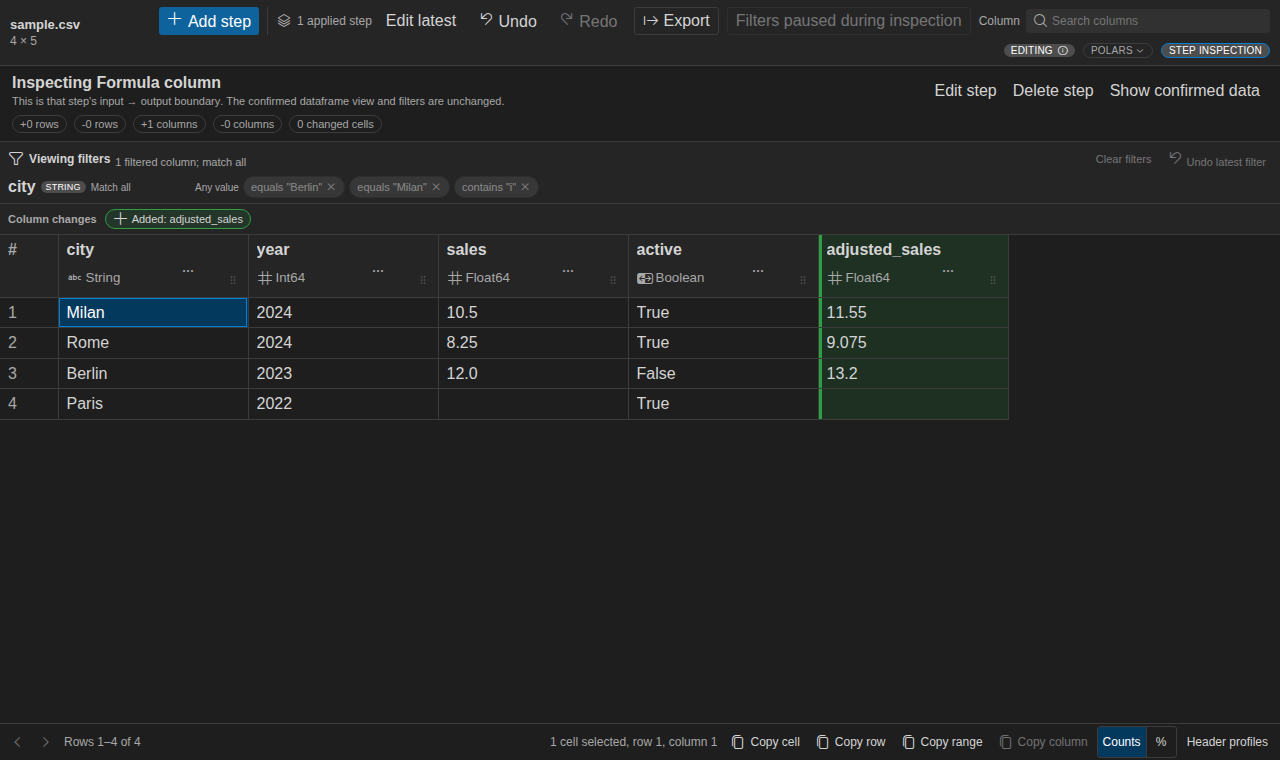
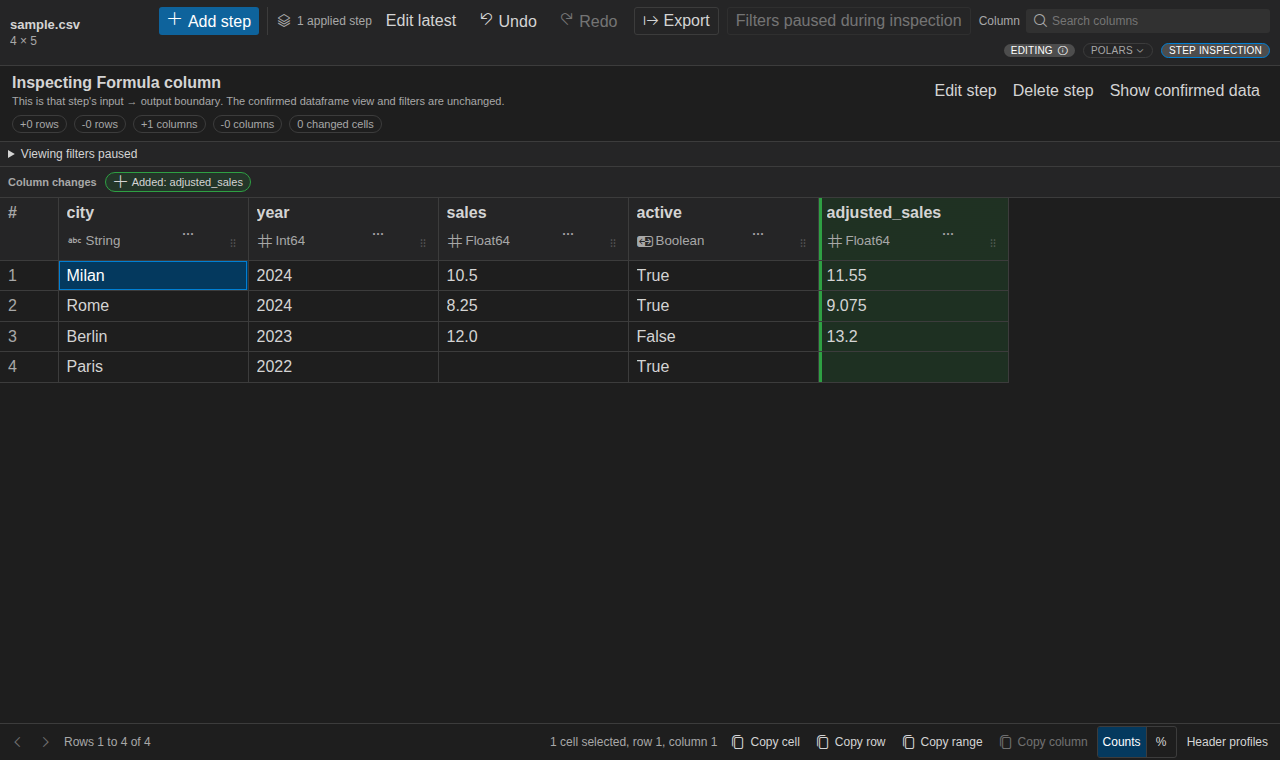
Collapse paused viewing filters during step inspection

diff --git a/src/test/appStepInspection.component.test.tsx b/src/test/appStepInspection.component.test.tsx
@@ -403,9 +403,20 @@ describe("App applied-step inspection", () => {
   });
 
   it("keeps the confirmed view untouched while selecting, paging, and clearing an applied step", async () => {
+    const filteredMetadata: SessionMetadata = {
+      ...metadata,
+      filterModel: {
+        ...metadata.filterModel,
+        filters: [
+          { column: "city", type: "string", predicates: [{ kind: "predicate", operator: "contains", value: "i" }] }
+        ]
+      }
+    };
     render(<App />);
-    dispatch({ kind: "sessionOpened", metadata, page: confirmedPage, summaries: [] });
+    dispatch({ kind: "sessionOpened", metadata: filteredMetadata, page: confirmedPage, summaries: [] });
     await screen.findByRole("cell", { name: "10.5" });
+    const filterRegion = screen.getByRole("region", { name: "Viewing filters" });
+    const filterRule = screen.getByRole("button", { name: 'Remove contains "i" filter from city' });
     postMessage.mockClear();
 
     dispatch({ kind: "editorAction", action: "selectStep", stepId: step.id });
@@ -420,6 +431,11 @@ describe("App applied-step inspection", () => {
     expect(screen.getByText("Loading selected-step inspection…")).toBeVisible();
     expect(screen.getByRole("button", { name: "Filters paused during inspection" })).toBeDisabled();
     expect(screen.queryByRole("cell", { name: "10.5" })).toBeNull();
+    const disclosure = screen.getByText("Viewing filters paused").closest("details")!;
+    expect(disclosure.open).toBe(false);
+    fireEvent.click(screen.getByText("Viewing filters paused"));
+    expect(filterRegion).toBeVisible();
+    expect(filterRule).toBeDisabled();
 
     dispatch({
       kind: "editorAction",
@@ -435,6 +451,8 @@ describe("App applied-step inspection", () => {
     dispatch(inspectionResult(step.id, 0, inspection()));
 
     expect(await screen.findByLabelText("Selected applied-step inspection")).toBeVisible();
+    expect(disclosure.open).toBe(true);
+    expect(screen.getByRole("region", { name: "Viewing filters" })).toBe(filterRegion);
     expect(screen.getByRole("cell", { name: "sales, row 1: changed from 10.5 to 11" })).toHaveAttribute(
       "data-diff-state",
       "changed"
@@ -459,6 +477,7 @@ describe("App applied-step inspection", () => {
     expect(screen.getByText("Loading selected-step inspection…")).toBeVisible();
     dispatch(inspectionResult(step.id, 200, inspection(200)));
     expect(await screen.findByRole("cell", { name: "sales, row 201: changed from 10.5 to 11" })).toBeVisible();
+    expect(disclosure.open).toBe(true);
 
     postMessage.mockClear();
     fireEvent.keyDown(screen.getByRole("main"), { key: "Escape" });
@@ -467,6 +486,13 @@ describe("App applied-step inspection", () => {
     expect(screen.getByRole("cell", { name: "10.5" })).toBeVisible();
     expect(screen.getByRole("button", { name: "Column profiles and filters" })).toBeEnabled();
     expect(runtimeRequests("getPage")).toHaveLength(0);
+    expect(screen.getByText("Viewing filters paused")).not.toBeVisible();
+    expect(screen.getByRole("region", { name: "Viewing filters" })).toBe(filterRegion);
+    expect(filterRule).toBeEnabled();
+    fireEvent.click(filterRule);
+    expect(onlyRuntimeRequest("getPage")).toMatchObject({
+      filterModel: { ...filteredMetadata.filterModel, filters: [] }
+    });
   });
 
   it("keeps inspection failures local and ignores a superseded result", async () => {
@@ -475,13 +501,25 @@ describe("App applied-step inspection", () => {
       kind: "dropColumns",
       params: { columns: [{ id: "c:city", name: "city" }] }
     };
-    const withTwoSteps = { ...metadata, steps: [step, secondStep] };
+    const withTwoSteps: SessionMetadata = {
+      ...metadata,
+      steps: [step, secondStep],
+      filterModel: {
+        ...metadata.filterModel,
+        filters: [
+          { column: "city", type: "string", predicates: [{ kind: "predicate", operator: "contains", value: "i" }] }
+        ]
+      }
+    };
     render(<App />);
     dispatch({ kind: "sessionOpened", metadata: withTwoSteps, page: confirmedPage, summaries: [] });
     await screen.findByRole("cell", { name: "10.5" });
 
     dispatch({ kind: "editorAction", action: "selectStep", stepId: step.id });
+    const disclosure = screen.getByText("Viewing filters paused").closest("details")!;
+    fireEvent.click(screen.getByText("Viewing filters paused"));
     dispatch({ kind: "editorAction", action: "selectStep", stepId: secondStep.id });
+    expect(disclosure.open).toBe(true);
     dispatch(inspectionResult(step.id, 0, inspection()));
     expect(screen.getByText(/Loading Drop columns/u)).toBeVisible();
 
@@ -497,9 +535,12 @@ describe("App applied-step inspection", () => {
     expect(screen.queryByText("Opening session...")).toBeNull();
     expect(screen.queryByRole("cell", { name: "10.5" })).toBeNull();
     expect(screen.getByRole("button", { name: "Filters paused during inspection" })).toBeDisabled();
+    expect(disclosure.open).toBe(true);
+    expect(screen.getByRole("button", { name: 'Remove contains "i" filter from city' })).toBeDisabled();
 
     fireEvent.click(screen.getByRole("button", { name: "Show confirmed data" }));
     expect(screen.getByRole("cell", { name: "10.5" })).toBeVisible();
+    expect(screen.getByRole("button", { name: 'Remove contains "i" filter from city' })).toBeEnabled();
   });
 
   it("edits an inspected earlier step against its inspected input schema and stable ID", async () => {

diff --git a/src/test/activeFilterBar.component.test.tsx b/src/test/activeFilterBar.component.test.tsx
@@ -74,6 +74,7 @@ interface FocusViewState {
   canUndo: boolean;
   requestLifecycle?: FilterBarRequestLifecycle;
   disabled?: boolean;
+  paused?: boolean;
   retainVisible?: boolean;
 }
 
@@ -89,6 +90,7 @@ function FocusView({
   onApply,
   onUndo,
   disabled = false,
+  paused = false,
   retainVisible = false
 }: FocusViewProps) {
   return (
@@ -98,6 +100,7 @@ function FocusView({
         model={model}
         canUndo={canUndo}
         disabled={disabled}
+        paused={paused}
         retainVisible={retainVisible}
         requestLifecycle={requestLifecycle}
         onApply={onApply}
@@ -275,10 +278,12 @@ describe("ActiveFilterBar", () => {
         model={{ ...activeModel, filters: [] }}
         canUndo={true}
         disabled={true}
+        paused={true}
         onApply={onApply}
         onUndo={onUndo}
       />
     );
+    fireEvent.click(screen.getByText("Viewing filters paused"));
     expect(screen.getByText("No active filters")).toBeVisible();
     expect(screen.getByRole("button", { name: "Clear filters" })).toBeDisabled();
     expect(screen.getByRole("button", { name: "Undo latest filter" })).toBeDisabled();
@@ -289,11 +294,111 @@ describe("ActiveFilterBar", () => {
         metadata={metadata}
         model={{ ...activeModel, filters: [] }}
         canUndo={false}
+        paused={true}
         onApply={onApply}
         onUndo={onUndo}
       />
     );
     expect(screen.queryByRole("region", { name: "Viewing filters" })).not.toBeInTheDocument();
+    expect(screen.queryByText("Viewing filters paused")).not.toBeInTheDocument();
+  });
+
+  it("retains the same rules and disclosure choice while inspection is paused", () => {
+    const onApply = vi.fn();
+    const onUndo = vi.fn();
+    const view = (paused: boolean) => (
+      <FocusView
+        model={activeModel}
+        canUndo={true}
+        paused={paused}
+        disabled={paused}
+        onApply={onApply}
+        onUndo={onUndo}
+      />
+    );
+    const rendered = render(view(false));
+    const region = screen.getByRole("region", { name: "Viewing filters" });
+    const rule = screen.getByRole("button", { name: 'Remove equals "Milan" (string) filter from city' });
+    const gridRow = screen.getByRole("button", { name: "Grid row" });
+    gridRow.focus();
+    rendered.rerender(view(true));
+
+    const summary = screen.getByText("Viewing filters paused");
+    const disclosure = summary.closest("details")!;
+    expect(gridRow).toHaveFocus();
+    expect(disclosure.open).toBe(false);
+    expect(region).toBeInTheDocument();
+    expect(region).not.toBeVisible();
+    expect(rule).toBeDisabled();
+    fireEvent.click(summary);
+    expect(disclosure.open).toBe(true);
+    expect(region).toBeVisible();
+    rendered.rerender(view(true));
+    expect(disclosure.open).toBe(true);
+    expect(screen.getByRole("region", { name: "Viewing filters" })).toBe(region);
+    expect(screen.getByText("2 filtered columns; match any")).toBeVisible();
+    expect(onApply).not.toHaveBeenCalled();
+    expect(onUndo).not.toHaveBeenCalled();
+
+    summary.focus();
+    rendered.rerender(view(false));
+    expect(summary).not.toBeVisible();
+    expect(region).toHaveFocus();
+    expect(rule).toBeEnabled();
+    fireEvent.click(rule);
+    expect(onApply).toHaveBeenLastCalledWith({
+      ...activeModel,
+      filters: [
+        {
+          ...activeModel.filters[0],
+          valueFilter: { ...activeModel.filters[0].valueFilter!, selectedValues: ["Paris"] }
+        },
+        activeModel.filters[1]
+      ]
+    });
+    fireEvent.click(screen.getByRole("button", { name: "Undo latest filter" }));
+    expect(onUndo).toHaveBeenCalledOnce();
+  });
+
+  it("moves only owned filter focus to the disclosure and retires pending action focus", () => {
+    const sequence = renderFocusSequence({ model: activeModel, canUndo: true });
+    const clear = screen.getByRole("button", { name: "Clear filters" });
+    clear.focus();
+    fireEvent.click(clear);
+    sequence.rerender({
+      model: activeModel,
+      canUndo: true,
+      paused: true,
+      disabled: true,
+      requestLifecycle: { pendingRequestId: "clear-request" }
+    });
+    const summary = screen.getByText("Viewing filters paused");
+    expect(summary).toHaveFocus();
+    sequence.rerender({
+      model: activeModel,
+      canUndo: true,
+      paused: true,
+      disabled: true,
+      requestLifecycle: { settledRequestId: "clear-request" }
+    });
+    expect(summary).toHaveFocus();
+    const gridRow = screen.getByRole("button", { name: "Grid row" });
+    gridRow.focus();
+    sequence.rerender({ model: activeModel, canUndo: true });
+    expect(gridRow).toHaveFocus();
+
+    clear.focus();
+    fireEvent.click(clear);
+    clear.blur();
+    sequence.rerender({
+      model: activeModel,
+      canUndo: true,
+      paused: true,
+      disabled: true,
+      requestLifecycle: { settledRequestId: "clear-request" }
+    });
+    expect(document.body).toHaveFocus();
+    expect(screen.getByRole("region", { name: "Viewing filters", hidden: true })).not.toBeVisible();
   });
 
   it("restores focus when the initiating request moves from disabled to settled", () => {

diff --git a/src/webviews/filters/ActiveFilterBar.tsx b/src/webviews/filters/ActiveFilterBar.tsx
@@ -19,6 +19,7 @@ interface ActiveFilterBarProps {
   metadata: SessionMetadata;
   model: FilterModel;
   disabled?: boolean;
+  paused?: boolean;
   canUndo: boolean;
   retainVisible?: boolean;
   requestLifecycle?: FilterBarRequestLifecycle;
@@ -43,6 +44,7 @@ export function ActiveFilterBar({
   metadata,
   model,
   disabled = false,
+  paused = false,
   canUndo,
   retainVisible = false,
   requestLifecycle,
@@ -50,11 +52,29 @@ export function ActiveFilterBar({
   onUndo
 }: ActiveFilterBarProps) {
   const region = useRef<HTMLElement | null>(null);
+  const disclosure = useRef<HTMLDetailsElement | null>(null);
   const focusIntent = useRef<FilterFocusIntent | undefined>(undefined);
   const activeFilters = useMemo(() => model.filters.filter(isActiveColumnFilter), [model.filters]);
   const filteredColumnCount = new Set(activeFilters.map((filter) => filter.column)).size;
   const pendingRequestId = requestLifecycle?.pendingRequestId;
   const settledRequestId = requestLifecycle?.settledRequestId;
+  const visible = activeFilters.length > 0 || canUndo || retainVisible;
+
+  useLayoutEffect(() => {
+    const details = disclosure.current;
+    const summary = details?.querySelector("summary");
+    if (!details || !summary) return;
+    if (paused) {
+      summary.hidden = false;
+      focusIntent.current = undefined;
+      if (region.current?.contains(document.activeElement)) summary.focus({ preventScroll: true });
+      details.open = false;
+    } else {
+      details.open = true;
+      if (document.activeElement === summary) region.current?.focus({ preventScroll: true });
+      summary.hidden = true;
+    }
+  }, [paused, visible]);
 
   useLayoutEffect(() => {
     const intent = focusIntent.current;
@@ -88,7 +108,7 @@ export function ActiveFilterBar({
     restoreFilterActionFocus(intent.action, region.current, activeFilters.length > 0);
   }, [activeFilters, canUndo, disabled, pendingRequestId, settledRequestId]);
 
-  if (activeFilters.length === 0 && !canUndo && !retainVisible) return null;
+  if (!visible) return null;
 
   const applyRuleRemoval = (filter: ColumnFilter, nextFilter: ColumnFilter, trigger: HTMLButtonElement) => {
     if (disabled) return;
@@ -103,7 +123,7 @@ export function ActiveFilterBar({
     }
   };
 
-  return (
+  const filterBar = (
     <section
       ref={region}
       className="viewFilterBar"
@@ -274,6 +294,13 @@ export function ActiveFilterBar({
         </div>
       )}
     </section>
+  );
+
+  return (
+    <details ref={disclosure} className="viewFilterDisclosure">
+      <summary hidden>Viewing filters paused</summary>
+      {filterBar}
+    </details>
   );
 }
 

diff --git a/src/webviews/styles/grid.css b/src/webviews/styles/grid.css
@@ -6,6 +6,24 @@
   position: relative;
 }
 
+.viewFilterDisclosure {
+  flex: 0 0 auto;
+  min-width: 0;
+}
+
+.viewFilterDisclosure > summary {
+  background: var(--vscode-editorGroupHeader-tabsBackground, var(--vscode-editor-background));
+  border-bottom: 1px solid var(--vscode-panel-border);
+  cursor: pointer;
+  font-size: 12px;
+  padding: 5px 8px;
+}
+
+.viewFilterDisclosure > summary:focus-visible {
+  outline: 1px solid var(--vscode-focusBorder);
+  outline-offset: -2px;
+}
+
 .viewFilterBar {
   background: var(--vscode-editorGroupHeader-tabsBackground, var(--vscode-editor-background));
   border-bottom: 1px solid var(--vscode-panel-border);

diff --git a/src/webviews/App.tsx b/src/webviews/App.tsx
@@ -2492,6 +2492,7 @@ export function App() {
                 metadata={metadata}
                 model={filterModel}
                 disabled={loading || projectionLoading || mutationPending || importOptionsPending || inspectionMode}
+                paused={inspectionMode}
                 canUndo={confirmedFilterHistory.entries.length > 0}
                 retainVisible={hasActiveFilters(metadata.filterModel)}
                 requestLifecycle={pageRequestLifecycle}

diff --git a/docs/feature-parity.md b/docs/feature-parity.md
@@ -520,6 +520,8 @@ Column search keeps arrow and page-key navigation aligned with the displayed res
 Small editor panes preserve room for the grid header and a row while the workbench scrolls around wrapped controls.
 Column profiles and filters stay beside the grid, or below it in narrow panes, without covering the selected cell.
 The stacked layout shows fewer rows and scrolls to reach longer filter forms.
+During applied-step inspection, **Viewing filters paused** expands to reveal the retained rules. Clearing inspection
+restores the full viewing-filter bar.
 Column search reveals and focuses its target within both the table and editor viewport, including when the same column
 is selected again, without replacing a later focus choice.
 Focused draft buttons return keyboard focus to Add step, and deletion confirmation retains focus through Cancel.

diff --git a/docs/testing.md b/docs/testing.md
@@ -123,6 +123,8 @@ disclosure and failed preview. Busy forms retain keyboard scrolling without focu
 The filter keyboard owner also checks selected-column/profile agreement and hit visibility of the focused cell and
 header with the panel open at 1280px, 800px, 621px, 620px and a short 320px viewport. A column wider than the available
 data lane must expose that lane; the panel must not cover the grid, and its short-layout controls retain Tab/Escape access.
+The inspection workflow checks Enter on the paused-filter disclosure, retained disabled rules and focus on entry and
+return. Focus moves from a filter control being hidden to the disclosure and leaves unrelated controls alone.
 
 Use the existing owners to choose a focused source check:
 

diff --git a/CHANGELOG.md b/CHANGELOG.md
@@ -7,6 +7,7 @@ All notable changes to Open Wrangler are documented here. Preview builds remain 
 ### Changed
 
 - Formula steps show their saved output names in Cleaning Steps tooltips and accessible names.
+- Applied-step inspection collapses paused viewing filters into a disclosure, with full rules available on demand.
 
 ### Fixed
 
